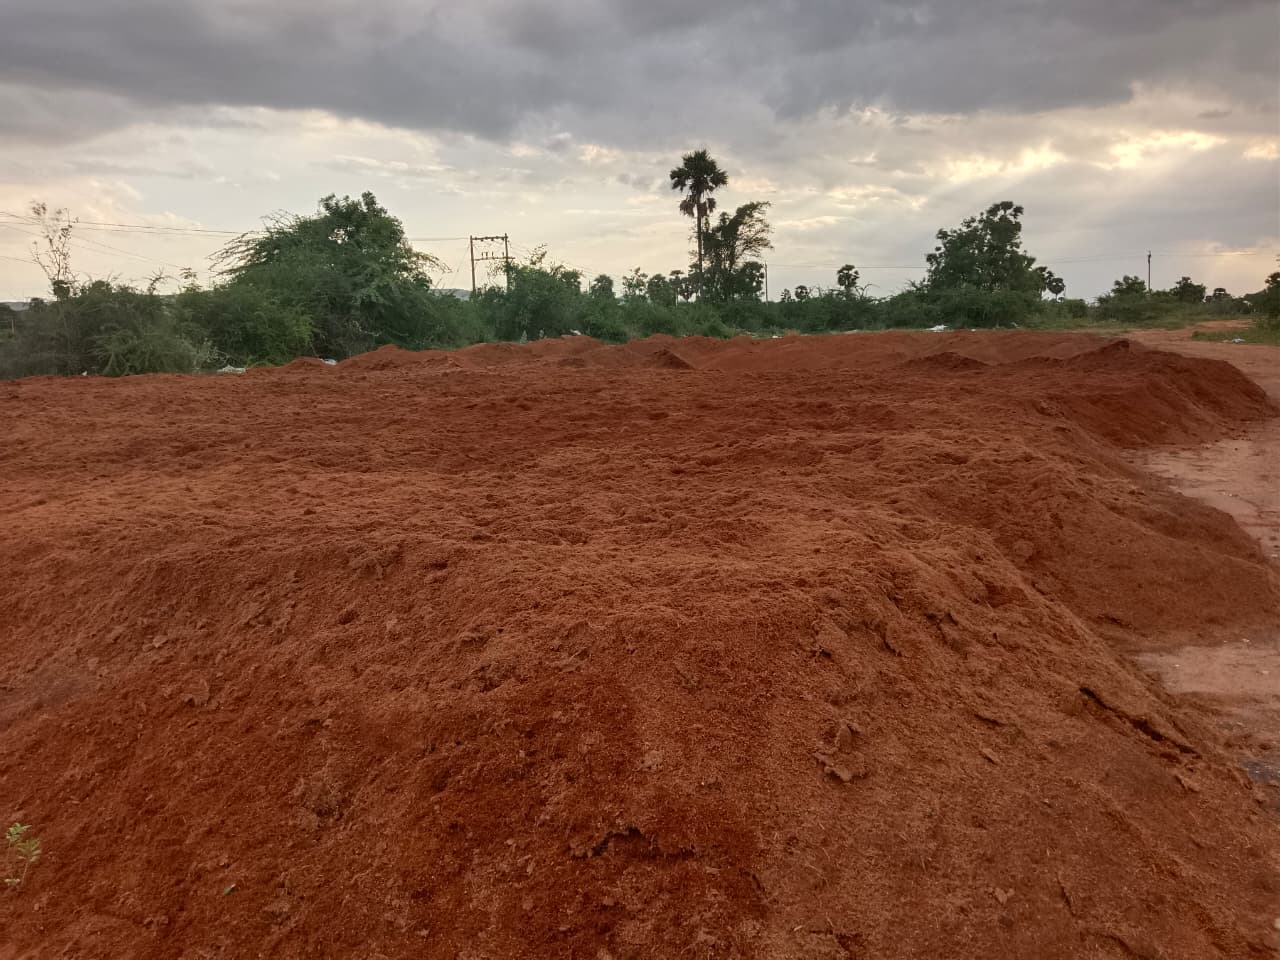
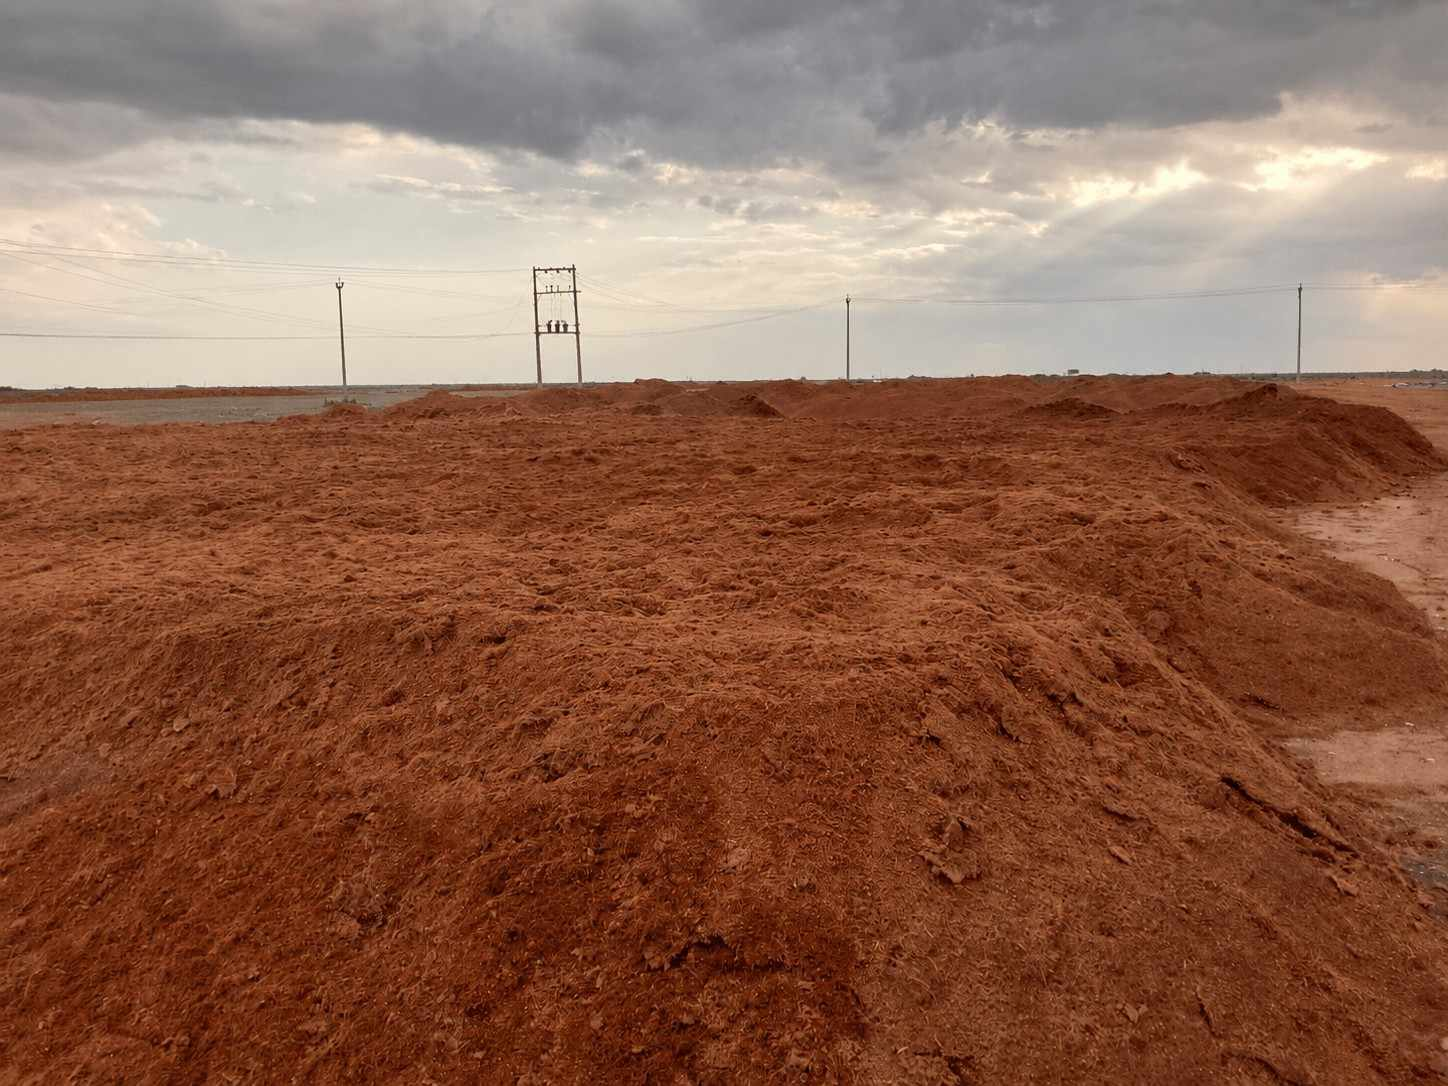
Remove unused product images and update product data references

diff --git a/anuradhaCoirs/assets/products-data.js b/anuradhaCoirs/assets/products-data.js
@@ -277,7 +277,6 @@ const SEED = [
             'assets/images/Products/openTopGrowBag.jpg',
             'assets/images/Products/openTopGrowBag3.jpeg',
             'assets/images/Products/openTopGrowBag5.jpg',
-            'assets/images/Products/GBSOT.jpeg',
             'assets/images/Products/GBOT.jpeg',
         ],
         description: 'Open top grow bags specially developed for commercial cultivation and nursery applications. Pre-filled with high-quality coco peat and husk chips mixture to support healthy root growth.',
@@ -296,12 +295,6 @@ const SEED = [
                 desc: 'Pre-filled grow bags that serve as individual planters. Just add water to expand, and plant directly.',
                 image: 'assets/images/Products/openTopGrowBag5.jpg',
                 icon: 'bi-play-fill'
-            },
-            {
-                title: 'Enhanced Drainage System',
-                desc: 'Custom drainage slits prevent waterlogging, ensuring roots remain highly oxygenated and rot-free.',
-                image: 'assets/images/Products/GBSOT.jpeg',
-                icon: 'bi-water'
             },
             {
                 title: 'Reusable Crop Cycles',
